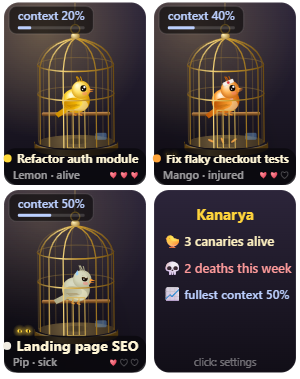
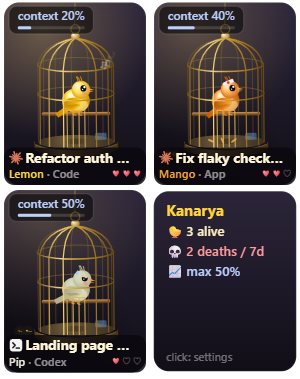
Düzenler 1-8+ oturum, sabit boyutlu başlık, Claude Code / Claude App / Codex simgeleri, kısa hücrede kırpılmış kafes

diff --git a/app/scene.js b/app/scene.js
@@ -13,11 +13,13 @@ const TXT = {
   tr: { alive: (n, m, tired) => `${n} · ${tired ? 'uykulu' : m === 'injured' ? 'yaralı' : m === 'sick' ? 'hasta' : 'yaşıyor'}`,
     dead: (n) => `${n} · öldü`, died: 'KANARYA ÖLDÜ', hall: 'uydurdu, kedi geldi', blur: 'bağlam bulanıklaştı',
     hint: '/compact ya da sağ tık → yeni yumurta', wait: 'Oturum bekleniyor', waitHint: 'Claude Code ya da Codex aç', ctx: 'bağlam',
-    sumAlive: (n) => `${n} kanarya yaşıyor`, sumWeek: (k) => `bu hafta ${k} ölüm`, sumCtx: (p) => `en dolu bağlam %${p}`, sumHint: 'tıkla: ayarlar' },
+    sumAlive: (n) => `${n} kanarya yaşıyor`, sumWeek: (k) => `bu hafta ${k} ölüm`, sumCtx: (p) => `en dolu bağlam %${p}`, sumHint: 'tıkla: ayarlar', sumMore: (n) => `+${n} oturum daha`,
+    short: { alive: (n) => `${n} yaşıyor`, week: (k) => `${k} ölüm / 7 gün`, ctx: (p) => `en dolu %${p}`, more: (n) => `+${n} oturum` } },
   en: { alive: (n, m, tired) => `${n} · ${tired ? 'sleepy' : m === 'injured' ? 'injured' : m === 'sick' ? 'sick' : 'alive'}`,
     dead: (n) => `${n} · dead`, died: 'CANARY DIED', hall: 'made things up, the cat came', blur: 'context got blurry',
     hint: '/compact or right-click → new egg', wait: 'Waiting for a session', waitHint: 'Open Claude Code or Codex', ctx: 'context',
-    sumAlive: (n) => `${n} canar${n === 1 ? 'y' : 'ies'} alive`, sumWeek: (k) => `${k} death${k === 1 ? '' : 's'} this week`, sumCtx: (p) => `fullest context ${p}%`, sumHint: 'click: settings' },
+    sumAlive: (n) => `${n} canar${n === 1 ? 'y' : 'ies'} alive`, sumWeek: (k) => `${k} death${k === 1 ? '' : 's'} this week`, sumCtx: (p) => `fullest context ${p}%`, sumHint: 'click: settings', sumMore: (n) => `+${n} more session${n === 1 ? '' : 's'}`,
+    short: { alive: (n) => `${n} alive`, week: (k) => `${k} deaths / 7d`, ctx: (p) => `max ${p}%`, more: (n) => `+${n} more` } },
 };
 
 // ---------- durum ----------
@@ -442,7 +444,12 @@ function heart(x, y, s, filled) {
 // Metni genişliğe sığdır: önce küçült, yine sığmazsa sonuna … koy.
 function fitText(text, maxW, size, weight = '600', min = 9, family = '"Segoe UI", system-ui, sans-serif') {
   let sz = size;
-  for (; sz > min; sz -= 0.5) { ctx.font = `${weight} ${sz}px ${family}`; if (ctx.measureText(text).width <= maxW) return text; }
+  for (;;) {
+    ctx.font = `${weight} ${sz}px ${family}`;
+    if (ctx.measureText(text).width <= maxW) return text;
+    if (sz <= min) break;
+    sz = Math.max(min, sz - 0.5);
+  }
   ctx.font = `${weight} ${min}px ${family}`;
   let t = String(text);
   while (t.length > 1 && ctx.measureText(`${t}…`).width > maxW) t = t.slice(0, -1);
@@ -479,8 +486,10 @@ function footer(st) {
   // proje · ajan
   if (st && (st.label || st.agentName)) {
     const line = [st.label, st.agentName].filter(Boolean).join(' · ');
-    const t2 = fitText(line, maxW, 10.5, '500', 9, 'Consolas, "Cascadia Mono", monospace');
-    ctx.fillStyle = 'rgba(255,255,255,0.5)'; ctx.fillText(t2, CX, 277);
+    const t2 = fitText(line, maxW - 16, 10.5, '500', 10.5, 'Consolas, "Cascadia Mono", monospace');
+    const w2 = ctx.measureText(t2).width;
+    agentGlyph(st.agentKind || (st.agentName === 'Codex' ? 'codex' : 'claude'), CX - w2 / 2 - 2, 273.5, 5.5);
+    ctx.fillStyle = 'rgba(255,255,255,0.5)'; ctx.fillText(t2, CX + 8, 277);
   } else if (!st) {
     ctx.font = '10px "Segoe UI", system-ui, sans-serif'; ctx.fillStyle = 'rgba(255,255,255,0.4)'; ctx.fillText(l.waitHint, CX, 277);
   }
@@ -505,7 +514,24 @@ function withCage(c, fn) {
   model = c.model; scene = c.scene; particles = c.particles; lastEventId = c.lastEventId; seed = c.seed;
   try { fn(); } finally { c.scene = scene; c.particles = particles; c.lastEventId = lastEventId; }
 }
-function gridOf(n) { const cols = n <= 1 ? 1 : 2; return { cols, rows: Math.max(1, Math.ceil(n / cols)) }; }
+
+// Düzen: pencere (240x300) içinde kafes ve özet kartı yuvaları.
+// 1 → tam boy · 2 → üstte 2 kafes + altta geniş özet · 3 → 2x2 (+özet) · 4 → 2x2
+// 5–6 → 2x3 (5'te +özet) · 7+ → ilk 5 kafes + "+N" özet
+const MAX_SHOWN = 6;
+function layout(n) {
+  const slots = [];
+  const cell = (x, y, w, h, kind, i) => slots.push({ x, y, w, h, kind, i });
+  if (n <= 1) { cell(0, 0, W, H, 'full', 0); return slots; }
+  if (n === 2) { cell(0, 0, 120, 150, 'cage', 0); cell(120, 0, 120, 150, 'cage', 1); cell(0, 150, 240, 150, 'summary'); return slots; }
+  if (n <= 4) {
+    for (let i = 0; i < 4; i++) cell((i % 2) * 120, Math.floor(i / 2) * 150, 120, 150, i < n ? 'cage' : 'summary', i);
+    return slots;
+  }
+  const shown = n > MAX_SHOWN ? 5 : n;
+  for (let i = 0; i < 6; i++) cell((i % 2) * 120, Math.floor(i / 2) * 100, 120, 100, i < shown ? 'cage' : 'summary', i);
+  return slots;
+}
 
 function render() {
   const t = nowS();
@@ -516,92 +542,117 @@ function render() {
   ctx.clearRect(0, 0, cv.width, cv.height);
   const k = cv.width / W;
   const list = cages.length ? cages : [emptyCage];
-  if (list.length === 1) {
+  for (const sl of layout(list.length)) {
     ctx.setTransform(k, 0, 0, k, 0, 0);
-    withCage(list[0], () => drawCage(t, dt, true));
-    return;
-  }
-  // Izgara: aynı pencere boyunda 2 sütun; her hücrede küçültülmüş kafes + okunaklı etiket.
-  const { cols, rows } = gridOf(list.length);
-  const cw = W / cols; const ch = H / rows;
-  const s = Math.min((cw - 4) / 224, (ch - 4) / 288);
-  list.forEach((c, i) => {
-    const x0 = (i % cols) * cw; const y0 = Math.floor(i / cols) * ch;
-    ctx.setTransform(k, 0, 0, k, 0, 0);
-    ctx.translate(x0 + (cw - 224 * s) / 2 - 8 * s, y0 + (ch - 288 * s) / 2 - 6 * s);
+    if (sl.kind === 'full') { withCage(list[0], () => drawCage(t, dt, true)); continue; }
+    if (sl.kind === 'summary') { summaryCard(list, sl); continue; }
+    const c = list[sl.i];
+    const compact = sl.h < 130; // kısa hücre: zincir/kubbe kırpılır, görünür bölge kafes biriminde y=CROP..294
+    const CROP = 92;
+    const s = compact ? Math.min((sl.w - 4) / 224, (sl.h - 4) / (294 - CROP)) : Math.min((sl.w - 4) / 224, (sl.h - 4) / 288);
+    const top = compact ? CROP : 6;
+    ctx.save();
+    if (compact) { rrect(sl.x + 2, sl.y + 2, sl.w - 4, sl.h - 4, 12); ctx.clip(); }
+    ctx.translate(sl.x + (sl.w - 224 * s) / 2 - 8 * s, sl.y + (sl.h - (294 - top) * s) / 2 - top * s);
     ctx.scale(s, s);
-    withCage(c, () => { drawCage(t, dt, false); cellLabel(c.model.state, s); });
-  });
-  // Tek sayıda oturumda boş kalan hücre: özet kartı.
-  if (list.length % 2 === 1) {
-    const i = list.length;
-    ctx.setTransform(k, 0, 0, k, 0, 0);
-    ctx.translate((i % cols) * cw + (cw - 224 * s) / 2 - 8 * s, Math.floor(i / cols) * ch + (ch - 288 * s) / 2 - 6 * s);
-    ctx.scale(s, s);
-    summaryCard(list, 1 / s);
+    withCage(c, () => { drawCage(t, dt, false); cellLabel(c.model.state, s, compact ? top + 4 : 12); });
+    ctx.restore();
   }
 }
 
-function summaryCard(list, f) {
+// Özet kartı: gerçek piksel biriminde çizilir (yuvanın boyuna göre satır sayısı).
+function summaryCard(list, sl) {
   const l = L();
   model = emptyCage.model;
-  rrect(8, 6, 224, 288, 24);
-  ctx.fillStyle = linear(0, 6, 0, 294, [[0, '#2c253a'], [1, '#110e17']]); ctx.fill();
-  ctx.strokeStyle = 'rgba(255,255,255,0.08)'; ctx.lineWidth = f; ctx.stroke();
+  const x = sl.x + 3; const y = sl.y + 3; const w = sl.w - 6; const h = sl.h - 6;
+  rrect(x, y, w, h, 12);
+  ctx.fillStyle = linear(0, y, 0, y + h, [[0, '#2c253a'], [1, '#110e17']]); ctx.fill();
+  ctx.strokeStyle = 'rgba(255,255,255,0.08)'; ctx.lineWidth = 1; ctx.stroke();
   const st = list.map((c) => c.model.state).filter(Boolean);
-  const dead = st.filter((x) => x.status === 'dead').length;
-  const maxCtx = Math.round(Math.max(0, ...st.map((x) => x.contextPct || 0)) * 100);
-  const rows = [
-    ['🐤', l.sumAlive(st.length - dead), '#fff2c2'],
-    ['💀', l.sumWeek(emptyCage.model.weeklyDeaths || 0), (emptyCage.model.weeklyDeaths || 0) ? '#ff9b9b' : 'rgba(255,255,255,0.7)'],
-    ['📈', l.sumCtx(maxCtx), maxCtx >= 80 ? '#ff8a8a' : maxCtx >= 60 ? '#ffd27a' : '#bcd0ff'],
-  ];
-  ctx.textAlign = 'center';
-  ctx.font = `700 ${12 * f}px "Segoe UI", system-ui, sans-serif`; ctx.fillStyle = '#ffd43b';
-  ctx.fillText('Kanarya', CX, 30 + 12 * f);
+  const dead = st.filter((v) => v.status === 'dead').length;
+  const maxCtx = Math.round(Math.max(0, ...st.map((v) => v.contextPct || 0)) * 100);
+  const extra = Math.max(0, list.length - 5);
+  const rows = [];
+  const sh = w < 160 ? l.short : { alive: l.sumAlive, week: l.sumWeek, ctx: l.sumCtx, more: l.sumMore };
+  if (list.length > MAX_SHOWN) rows.push(['➕', sh.more(extra), '#ffe9a8']);
+  rows.push(['🐤', sh.alive(st.length - dead), '#fff2c2']);
+  rows.push(['💀', sh.week(emptyCage.model.weeklyDeaths || 0), (emptyCage.model.weeklyDeaths || 0) ? '#ff9b9b' : 'rgba(255,255,255,0.7)']);
+  rows.push(['📈', sh.ctx(maxCtx), maxCtx >= 80 ? '#ff8a8a' : maxCtx >= 60 ? '#ffd27a' : '#bcd0ff']);
+  const lineH = 16; const top = y + 10;
   ctx.textAlign = 'left';
-  rows.forEach(([ic, txt, col], i) => {
-    const y = 30 + 12 * f + (i + 1) * 21 * f;
-    ctx.font = `${11 * f}px "Segoe UI Emoji", sans-serif`; ctx.fillStyle = '#fff'; ctx.fillText(ic, 22, y);
-    ctx.fillStyle = col; ctx.fillText(fitText(txt, 170, 10.5 * f, '600', 8 * f), 22 + 17 * f, y);
+  ctx.font = '700 12px "Segoe UI", system-ui, sans-serif'; ctx.fillStyle = '#ffd43b';
+  ctx.fillText('Kanarya', x + 10, top + 10);
+  const room = Math.floor((h - 34) / lineH);
+  rows.slice(0, Math.max(1, room)).forEach(([ic, txt, col], i) => {
+    const yy = top + 10 + (i + 1) * lineH;
+    ctx.font = '10px "Segoe UI Emoji", sans-serif'; ctx.fillStyle = '#fff'; ctx.fillText(ic, x + 10, yy);
+    ctx.fillStyle = col; ctx.fillText(fitText(txt, w - 38, 10.5, '600', 10.5), x + 26, yy);
   });
+  if (h > 90) {
+    ctx.font = '9px "Segoe UI", system-ui, sans-serif'; ctx.fillStyle = 'rgba(255,255,255,0.4)';
+    ctx.fillText(l.sumHint, x + 10, y + h - 8);
+  }
   ctx.textAlign = 'center';
-  ctx.font = `${8.5 * f}px "Segoe UI", system-ui, sans-serif`; ctx.fillStyle = 'rgba(255,255,255,0.4)';
-  ctx.fillText(fitText(l.sumHint, 200, 8.5 * f, '400', 7 * f), CX, 284);
 }
 
-// Küçük hücre etiketi: kafes koordinatlarında, ölçeğe göre büyütülmüş yazıyla.
-function cellLabel(st, s) {
-  if (!st) return;
-  const l = L(); const f = 1 / s; // f: gerçek pikseli mantıksal birime çevirir
-  ctx.textAlign = 'center';
-  rrect(8, 236, 224, 58, 18); ctx.fillStyle = 'rgba(10,8,14,0.82)'; ctx.fill();
-  const dot = palette('happy', st.variant || 0).mid;
-  const title = fitText(st.label || st.name, 196, 11.5 * f, '700', 8.5 * f);
-  const tw = ctx.measureText(title).width;
-  ctx.fillStyle = dot; ellipse(CX - tw / 2 - 5.5 * f, 252, 3.2 * f, 3.2 * f); ctx.fill();
-  ctx.fillStyle = st.status === 'dead' ? '#ff8a8a' : '#fff6d6'; ctx.fillText(title, CX + 2 * f, 252 + 4 * f);
-  const sub = st.status === 'dead' ? l.dead(st.name) : l.alive(st.name, st.mood, (st.contextPct || 0) > 0.8);
-  const line = fitText(st.agentName === 'Codex' ? `${sub} · Codex` : sub, 150, 9 * f, '500', 7.5 * f);
-  ctx.fillStyle = 'rgba(255,255,255,0.6)'; ctx.textAlign = 'left'; ctx.fillText(line, 22, 280 + 2 * f);
-  ctx.textAlign = 'center';
-  if (st.status !== 'dead') {
-    const n = st.maxLives || 3;
-    for (let i = 0; i < n; i++) heart(214 - (n - 1 - i) * 8.5 * f, 277 + 1.5 * f, 0.62 * f, i < st.lives);
+// Ajan simgesi (resmî logo değil, sade çağrışım): Claude → turuncu ışın, Codex → ">_" terminal.
+function agentGlyph(kind, x, y, r) {
+  ctx.save(); ctx.translate(x, y);
+  if (kind === 'codex') {
+    rrect(-r, -r, 2 * r, 2 * r, r * 0.45); ctx.fillStyle = '#f4f4f4'; ctx.fill();
+    ctx.strokeStyle = '#111'; ctx.lineWidth = r * 0.22; ctx.lineCap = 'round'; ctx.lineJoin = 'round';
+    ctx.beginPath(); ctx.moveTo(-r * 0.5, -r * 0.4); ctx.lineTo(-r * 0.1, 0); ctx.lineTo(-r * 0.5, r * 0.4); ctx.stroke();
+    ctx.beginPath(); ctx.moveTo(r * 0.05, r * 0.45); ctx.lineTo(r * 0.55, r * 0.45); ctx.stroke();
+  } else {
+    ctx.strokeStyle = '#d97757'; ctx.lineCap = 'round';
+    for (let i = 0; i < 12; i++) {
+      const a = (i / 12) * Math.PI * 2 + 0.2; const len = i % 2 ? r * 0.72 : r;
+      ctx.lineWidth = r * (i % 2 ? 0.2 : 0.26);
+      ctx.beginPath(); ctx.moveTo(Math.cos(a) * r * 0.18, Math.sin(a) * r * 0.18); ctx.lineTo(Math.cos(a) * len, Math.sin(a) * len); ctx.stroke();
+    }
   }
+  ctx.restore();
+}
+const agentShort = (st) => (st.agentKind === 'codex' || st.agentName === 'Codex' ? 'Codex' : st.agentName === 'Claude App' ? 'App' : 'Code');
+
+// Küçük hücre etiketi: yazı boyu SABİT (gerçek 11px / 9px); sığmazsa yalnızca "…" ile kısalır.
+function cellLabel(st, s, badgeY = 12) {
+  if (!st) return;
+  const l = L(); const f = 1 / s; // f: gerçek pikseli kafes birimine çevirir
+  const boxH = Math.min(120, 30 * f);
+  const top = 294 - boxH;
+  rrect(8, top, 224, boxH, Math.min(18, 8 * f)); ctx.fillStyle = 'rgba(10,8,14,0.85)'; ctx.fill();
+  const ty = top + 12 * f; const sy = top + 24.5 * f;
+  agentGlyph(st.agentKind || (st.agentName === 'Codex' ? 'codex' : 'claude'), 16 + 5.5 * f, ty - 3.8 * f, 5 * f);
+  ctx.textAlign = 'left';
+  const title = fitText(st.label || st.name, 216 - 20 - 13 * f, 11 * f, '700', 11 * f);
+  ctx.fillStyle = st.status === 'dead' ? '#ff8a8a' : '#fff6d6'; ctx.fillText(title, 16 + 13 * f, ty);
+  // alt satır: kanarya adı (rengiyle) · ajan
+  const n = st.maxLives || 3;
+  const heartsW = st.status === 'dead' ? 0 : n * 8.5 * f;
+  ctx.font = `600 ${9 * f}px "Segoe UI", system-ui, sans-serif`;
+  const nameTxt = st.status === 'dead' ? l.dead(st.name) : st.name;
+  ctx.fillStyle = st.status === 'dead' ? '#ff8a8a' : palette('happy', st.variant || 0).mid;
+  const nm = fitText(nameTxt, 120, 9 * f, '600', 9 * f);
+  ctx.fillText(nm, 16, sy);
+  const nw = ctx.measureText(nm).width;
+  ctx.fillStyle = 'rgba(255,255,255,0.55)';
+  ctx.fillText(fitText(` · ${agentShort(st)}`, Math.max(10, 224 - 16 - nw - heartsW - 6), 9 * f, '500', 9 * f), 16 + nw, sy);
+  ctx.textAlign = 'center';
+  if (st.status !== 'dead') for (let i = 0; i < n; i++) heart(226 - (n - 1 - i) * 8.5 * f - 4 * f, sy - 3 * f, 0.6 * f, i < st.lives);
   const pct = clamp(st.contextPct || 0, 0, 1);
-  if (pct > 0.005 && st.status !== 'dead') ctxBadge(pct, f);
+  if (pct > 0.005 && st.status !== 'dead') ctxBadge(pct, f, badgeY);
 }
 
 // Bağlam doluluğu: yazılı rozet ("bağlam 42%") + rozetin içinde altta doluluk çubuğu.
 // f: ızgarada küçülen kafeste yazının gerçek boyutta okunur kalması için büyütme.
-function ctxBadge(p, f) {
+function ctxBadge(p, f, y = 12) {
   const pct = Math.round(clamp(p || 0, 0, 1) * 100);
   const col = pct >= 80 ? '#ff8a8a' : pct >= 60 ? '#ffd27a' : '#bcd0ff';
   const txt = model.settings.lang === 'en' ? `${L().ctx} ${pct}%` : `${L().ctx} %${pct}`;
   ctx.font = `600 ${9.5 * f}px "Segoe UI", system-ui, sans-serif`;
   const pad = 7 * f; const w = ctx.measureText(txt).width + pad * 2; const h = 22 * f;
-  const x = 16; const y = 12;
+  const x = 16;
   rrect(x, y, w, h, 6 * f); ctx.fillStyle = 'rgba(0,0,0,0.55)'; ctx.fill();
   ctx.strokeStyle = 'rgba(255,255,255,0.10)'; ctx.lineWidth = f; ctx.stroke();
   ctx.fillStyle = col; ctx.textAlign = 'left'; ctx.fillText(txt, x + pad, y + 11 * f);
@@ -843,11 +894,14 @@ function resize() {
 window.addEventListener('resize', () => { resize(); kick(); });
 resize();
 
+function slotAt(x, y) {
+  const px = x / window.innerWidth * W; const py = y / window.innerHeight * H;
+  return layout(Math.max(1, cages.length)).find((sl) => px >= sl.x && px < sl.x + sl.w && py >= sl.y && py < sl.y + sl.h) || null;
+}
 function cageAt(x, y) {
-  if (cages.length <= 1) return cages[0] || null;
-  const { cols, rows } = gridOf(cages.length);
-  const i = Math.floor(y / (window.innerHeight / rows)) * cols + Math.floor(x / (window.innerWidth / cols));
-  return cages[i] || null;
+  const sl = slotAt(x, y);
+  if (!sl || sl.kind === 'summary') return null;
+  return cages[sl.kind === 'full' ? 0 : sl.i] || null;
 }
 function playOn(c, name) { if (c) withCage(c, () => play(name)); kick(); }
 
@@ -863,7 +917,8 @@ cv.addEventListener('contextmenu', (e) => {
 });
 cv.addEventListener('click', (e) => {
   // Özet kartına tıklayınca menü (ayarlar)
-  if (cages.length > 1 && cages.length % 2 === 1 && !cageAt(e.clientX, e.clientY)) window.kanarya && window.kanarya.menu(null);
+  const sl = slotAt(e.clientX, e.clientY);
+  if (sl && sl.kind === 'summary') window.kanarya && window.kanarya.menu(null);
 });
 cv.addEventListener('dblclick', (e) => {
   const c = cageAt(e.clientX, e.clientY);
@@ -914,9 +969,10 @@ window.kanaryaFreeze = (what, sec, lang, variant = 0, count = 1) => {
     sick: { mood: 'sick', lives: 1, status: 'alive', contextPct: 0.5 },
     dead: { mood: 'injured', lives: 0, status: 'dead', contextPct: 0.5, deathCause: 'hallucination' },
   };
-  const names = lang === 'en' ? ['Lemon', 'Mango', 'Pip', 'Honey', 'Biscuit', 'Sunny'] : ['Limon', 'Fıstık', 'Pamuk', 'Zerdali', 'Tarçın', 'Bal'];
-  const labels = lang === 'en' ? ['Refactor auth module', 'Fix flaky checkout tests', 'Landing page SEO', 'Migrate API client', 'Release notes 2.1', 'Docs cleanup'] : ['Giriş modülünü düzenle', 'Ödeme testlerini düzelt', 'Tanıtım sayfası SEO', 'API istemcisini taşı', 'Sürüm notları 2.1', 'Belge temizliği'];
-  const order = [what, 'injured', 'sick', 'sleepy', 'happy', 'dead'];
+  const names = lang === 'en' ? ['Lemon', 'Mango', 'Pip', 'Honey', 'Biscuit', 'Sunny', 'Butter', 'Peaches'] : ['Limon', 'Fıstık', 'Pamuk', 'Zerdali', 'Tarçın', 'Bal', 'Lokum', 'Güneş'];
+  const labels = lang === 'en' ? ['Refactor auth module', 'Fix flaky checkout tests', 'Landing page SEO', 'Migrate API client', 'Release notes 2.1', 'Docs cleanup', 'Upgrade dependencies', 'Write onboarding guide'] : ['Giriş modülünü düzenle', 'Ödeme testlerini düzelt', 'Tanıtım sayfası SEO', 'API istemcisini taşı', 'Sürüm notları 2.1', 'Belge temizliği', 'Bağımlılık güncelleme', 'Başlangıç kılavuzu'];
+  const order = [what, 'injured', 'sick', 'sleepy', 'happy', 'dead', 'happy', 'happy'];
+  const agents = [['Claude Code', 'claude'], ['Claude App', 'claude'], ['Codex', 'codex']];
   frozen = { t: 10 };
   emptyCage.model = { state: null, settings: { lang, onDeath: { sound: false } }, weeklyDeaths: 2 };
   cages = [];
@@ -924,7 +980,7 @@ window.kanaryaFreeze = (what, sec, lang, variant = 0, count = 1) => {
     const v = (variant + i) % 5;
     const key = order[i] in states ? order[i] : (order[i] === 'death' ? 'injured' : 'happy');
     const c = mkCage(`c${i}`);
-    c.model = { state: { name: names[i], variant: v, label: labels[i], agentName: i === 3 ? 'Codex' : 'Claude', maxLives: 3, ...states[key] }, settings: { lang, onDeath: { sound: false } }, weeklyDeaths: 2 };
+    c.model = { state: { name: names[i], variant: v, label: labels[i], agentName: agents[i % 3][0], agentKind: agents[i % 3][1], maxLives: 3, ...states[key] }, settings: { lang, onDeath: { sound: false } }, weeklyDeaths: 2 };
     if (i === 0 && SCENES[what]) {
       if (what === 'death') c.model.state = { ...c.model.state, status: 'dead', lives: 0, deathCause: 'hallucination' };
       c.scene = { name: what, start: 10 };

diff --git a/app/main.js b/app/main.js
@@ -15,7 +15,7 @@ const fs = require('fs');
 const path = require('path');
 const core = require('../lib/core');
 
-const W = 240; const H = 300; const MARGIN = 12; const MAX = 6;
+const W = 240; const H = 300; const MARGIN = 12; const MAX = 12;
 const ICON = path.join(__dirname, 'icon.png');
 const args = process.argv.slice(1);
 const snapshot = (args.find((a) => a.startsWith('--snapshot=')) || '').slice(11); // sahne:saniye:çıktı.png[:değişken[:adet]]
@@ -35,7 +35,8 @@ const L = {
   en: { settings: 'Settings…', egg: (n) => `${n}: new egg 🥚`, demo: 'Watch the cat attack', hide: 'Hide', quit: 'Close canary',
     dead: (n, p) => `${n} died 💀${p ? ` · ${p}` : ''}`, deadBody: (a) => `${a} started making things up or its context got blurry. Run /compact or open a new session.` },
 };
-const agentName = (a) => (a === 'codex' ? 'Codex' : 'Claude');
+// Claude Code (terminal) · Claude App (masaüstü uygulamasının Code sekmesi) · Codex
+const agentName = (a, entry) => (a === 'codex' ? 'Codex' : entry === 'claude-desktop' ? 'Claude App' : 'Claude Code');
 const folder = (cwd) => (cwd ? path.basename(String(cwd).replace(/[\\/]+$/, '')) : '');
 function label(s) {
   // Hangi kanaryanın hangi oturum olduğu: önce oturum başlığı, sonra ilk mesaj, en son klasör.
@@ -116,11 +117,11 @@ function scan() {
       seenEvents.add(s.event.id);
       if (!firstScan && s.event.type === 'death' && settings.onDeath.notification && Notification.isSupported()) {
         const l = L[settings.lang];
-        new Notification({ title: l.dead(s.name, label(s)), body: l.deadBody(agentName(s.agent)), silent: !settings.onDeath.sound, icon: ICON }).show();
+        new Notification({ title: l.dead(s.name, label(s)), body: l.deadBody(agentName(s.agent, s.entrypoint)), silent: !settings.onDeath.sound, icon: ICON }).show();
       }
     }
   }
-  const pub = sessions.map((s) => ({ ...s, word: undefined, label: label(s), folder: folder(s.cwd), agentName: agentName(s.agent) })); // kelime pencereye gitmez
+  const pub = sessions.map((s) => ({ ...s, word: undefined, label: label(s), folder: folder(s.cwd), agentName: agentName(s.agent, s.entrypoint), agentKind: s.agent === 'codex' ? 'codex' : 'claude' })); // kelime pencereye gitmez
   const payload = { sessions: pub, settings, weeklyDeaths: core.weeklyDeaths(), replay: !firstScan };
   firstScan = false;
   const sig = JSON.stringify(payload);

diff --git a/lib/core.js b/lib/core.js
@@ -300,6 +300,7 @@ function parseTranscript(file) {
   const raw = readTail(file);
   // /rename ile verilen ad önce, yoksa Claude Code'un kendi başlığı
   const title = lastJsonString(raw, 'customTitle') || lastJsonString(raw, 'aiTitle');
+  const entrypoint = lastJsonString(raw, 'entrypoint'); // cli | claude-desktop | sdk-cli
   const lines = raw.split('\n').filter(Boolean);
   const entries = [];
   for (const l of lines) { try { entries.push(JSON.parse(l)); } catch { /* yarım satır */ } }
@@ -324,7 +325,7 @@ function parseTranscript(file) {
       break;
     }
   }
-  return { text: texts.join('\n'), tokens, window, title };
+  return { text: texts.join('\n'), tokens, window, title, entrypoint };
 }
 
 function extractTag(text) {

diff --git a/hooks/kanarya-hook.js b/hooks/kanarya-hook.js
@@ -165,6 +165,7 @@ function onStop(input, settings) {
   }
   state.ended = false;
   if (parsed.title) state.title = parsed.title;
+  if (parsed.entrypoint) state.entrypoint = parsed.entrypoint;
   if (state.pendingCheck && state.status === 'alive') {
     let answer = core.extractTag(input.last_assistant_message) ?? core.extractTag(parsed.text);
     if (answer === null && input.transcript_path) {
